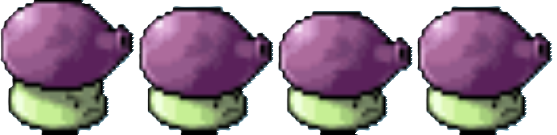
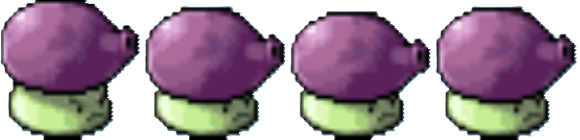
testing

diff --git a/Levels.cpp b/Levels.cpp
@@ -131,18 +131,21 @@ void Levels::collisionDetection()
 				//std::cout << pf.getPlants()[j]->getHealth() << '\n';
 			}
 
-			if (pf.getPlants()[j]->getBullet() != NULL &&  approxMatch(zf.getZombies()[i]->getHitArea(), pf.getPlants()[j]->getBullet()->getCoordinates()))
+			for (int m = 0; m < pf.getPlants()[j]->getBulletCount(); m++)
 			{
-				if (zf.getZombies()[i]->getHealth() > 0)
+				if (pf.getPlants()[j]->getBullet() != NULL && pf.getPlants()[j]->getBullet()[m] != NULL && approxMatch(zf.getZombies()[i]->getHitArea(), pf.getPlants()[j]->getBullet()[m]->getCoordinates()))
 				{
-					zf.getZombies()[i]->mark();
-					zf.getZombies()[i]->getShotAt(pf.getPlants()[j]->getBullet());
-				}
+					if (zf.getZombies()[i]->getHealth() > 0)
+					{
+						zf.getZombies()[i]->mark();
+						zf.getZombies()[i]->getShotAt(pf.getPlants()[j]->getBullet()[m]);
+					}
 
-				//else
-				//{
-				//	killCount++;
-				//}
+					//else
+					//{
+					//	killCount++;
+					//}
+				}
 			}
 
 
@@ -156,19 +159,21 @@ void Levels::collisionDetection()
 
 				//std::cout << pf.getPlants()[j]->getHealth() << '\n';
 			}
-
-			if (pf.getPlants()[j]->getBullet() != NULL && approxMatch(zf.getDancers()[i]->getHitArea(), pf.getPlants()[j]->getBullet()->getCoordinates()))
+			for (int m = 0; m < pf.getPlants()[j]->getBulletCount(); m++)
 			{
-				if (zf.getDancers()[i]->getHealth() > 0)
+				if (pf.getPlants()[j]->getBullet() != NULL && pf.getPlants()[j]->getBullet()[m] != NULL && approxMatch(zf.getDancers()[i]->getHitArea(), pf.getPlants()[j]->getBullet()[m]->getCoordinates()))
 				{
-					zf.getDancers()[i]->mark();
-					zf.getDancers()[i]->getShotAt(pf.getPlants()[j]->getBullet());
-				}
+					if (zf.getDancers()[i]->getHealth() > 0)
+					{
+						zf.getDancers()[i]->mark();
+						zf.getDancers()[i]->getShotAt(pf.getPlants()[j]->getBullet()[m]);
+					}
 
-				//else
-				//{
-				//	killCount++;
-				//}
+					//else
+					//{
+					//	killCount++;
+					//}
+				}
 			}
 
 
@@ -184,18 +189,21 @@ void Levels::collisionDetection()
 
 				}
 
-				if (pf.getPlants()[j]->getBullet() != NULL && zf.getBackUp()[i][k] != NULL && approxMatch(zf.getBackUp()[i][k]->getHitArea(), pf.getPlants()[j]->getBullet()->getCoordinates()))
+				for (int m = 0; m < pf.getPlants()[j]->getBulletCount(); m++)
 				{
-					if (zf.getBackUp()[i][k]->getHealth() > 0)
+					if (pf.getPlants()[j]->getBullet() != NULL && pf.getPlants()[j]->getBullet()[m] != NULL && zf.getBackUp()[i][k] != NULL && approxMatch(zf.getBackUp()[i][k]->getHitArea(), pf.getPlants()[j]->getBullet()[m]->getCoordinates()))
 					{
-						zf.getBackUp()[i][k]->mark();
-						zf.getBackUp()[i][k]->getShotAt(pf.getPlants()[j]->getBullet());
-					}
+						if (zf.getBackUp()[i][k]->getHealth() > 0)
+						{
+							zf.getBackUp()[i][k]->mark();
+							zf.getBackUp()[i][k]->getShotAt(pf.getPlants()[j]->getBullet()[m]);
+						}
 
-					//else
-					//{
-					//	killCount++;
-					//}
+						//else
+						//{
+						//	killCount++;
+						//}
+					}
 				}
 
 			}

diff --git a/PeaShooter.cpp b/PeaShooter.cpp
@@ -1,23 +1,24 @@
 #include "PeaShooter.h"
 
 PeaShooter::PeaShooter(int x, int y, int health, int pixelsX, int pixelsY)
-	: Plant (x,y,health, pixelsX, pixelsY)
+	: Plant (x,y,health, pixelsX, pixelsY), Pea(NULL), bulletCount(1)
 {
 	
 	texture.loadFromFile("./Images/Peashooter.png");
 	sprite.setTexture(texture);
 	sprite.setTextureRect(IntRect(0, 0, pixelsX, pixelsY));
 	sprite.setPosition(Pos.x, Pos.y);
+	Pea = new Bullet * [bulletCount] {};
 }
 
 void PeaShooter::Shoot()
 {
 
-	if (clock.getElapsedTime().asSeconds() < 0.5 || Pea)
+	if (clock.getElapsedTime().asSeconds() < 0.5 || Pea[0])
 		return;
 
 	clock.restart();
-	Pea = new Bullet(coordinates(Pos.x + 50, Pos.y + 50), 70, "frozen");
+	Pea[0] = new Bullet(coordinates(Pos.x + 50, Pos.y + 50), 70, "normal");
 }
 
 void PeaShooter::Draw(RenderWindow& window, float deltaTime)
@@ -27,18 +28,18 @@ void PeaShooter::Draw(RenderWindow& window, float deltaTime)
 		UpdateAnimation(deltaTime);
 		window.draw(sprite);
 
-		if (Pea)
+		if (Pea[0])
 		{
-			if (Pea->Existance())
+			if (Pea[0]->Existance())
 			{
-				Pea->Move();
-				Pea->draw(window);
+				Pea[0]->Move();
+				Pea[0]->draw(window);
 			}
 
 			else
 			{
-				delete Pea;
-				Pea = NULL;
+				delete Pea[0];
+				Pea[0] = NULL;
 			}
 		}
 	}

diff --git a/PlantFactory.cpp b/PlantFactory.cpp
@@ -89,9 +89,9 @@ void PlantFactory::Shoot()
         plants[i]->Shoot();
 }
 
-
-void PlantFactory::spawnSunflowerAtPosition(int x, int y)
-{
+//
+//void PlantFactory::spawnSunflowerAtPosition(int x, int y)
+//{
 int PlantFactory::Clicked(Event& event)
 {
     std::cout << "I am in click" << std::endl;
@@ -156,7 +156,8 @@ void PlantFactory::spawnSunflowerAtPosition(int x, int y, int check)
         break;
     case 4:
         std::cout << "Cherrybomb " << std::endl;
-        plants[numPlants] = new CherryBomb(x, y, 100);
+        cherryBomb = new CherryBomb(x, y, 100);
+        numPlants--;
         break;
     case 5:
         std::cout << "Repeater " << std::endl;

diff --git a/FumeShroom.cpp b/FumeShroom.cpp
@@ -4,7 +4,7 @@ FumeShroom::FumeShroom(int x, int y, int health, int pixelsX, int pixelsY)
 {
 	texture.loadFromFile("./Images/Fume-Shroom.png");
 	sprite.setTexture(texture);
-	sprite.setTextureRect(IntRect(offset * 139, 0, 139, 135));
+	sprite.setTextureRect(IntRect(0, 0, pixelsX, pixelsY));
 	sprite.setPosition(Pos.x, Pos.y);
 }
 void FumeShroom::UpdateAnimation(float deltaTime)
@@ -18,5 +18,5 @@ void FumeShroom::UpdateAnimation(float deltaTime)
 		if (offset == 4)
 			offset = 0;
 	}
-	sprite.setTextureRect(IntRect(offset * 139, 0, 139, 135));
+	sprite.setTextureRect(IntRect(offset * pixelsX, 0, pixelsX, pixelsY));
 }

diff --git a/PeaShooter.h b/PeaShooter.h
@@ -2,14 +2,17 @@
 #include "Plant.h"
 class PeaShooter : public Plant
 {
-	Bullet* Pea;
+protected:
+	Bullet** Pea;
+	int bulletCount;
 	Clock clock;
 public:
-	PeaShooter(int x, int y, int health, int pixelsX = 115, int pixelsY = 135);
+	PeaShooter(int x, int y, int health, int pixelsX = 111, int pixelsY = 135);
 	void UpdateAnimation(float deltaTime);
 	virtual void Shoot();
 	void Draw(RenderWindow& window, float deltaTime);
-	Bullet* getBullet()
+	int getBulletCount() { return bulletCount; }
+	Bullet** getBullet()
 	{
 		return Pea;
 	}

diff --git a/Repeater.cpp b/Repeater.cpp
@@ -8,6 +8,8 @@ Repeater::Repeater(int x, int y, int health, int pixelsX, int pixelsY)
 	sprite.setTexture(texture);
 	sprite.setTextureRect(IntRect(offset * 139, 0, 139, 135));
 	sprite.setPosition(Pos.x, Pos.y);
+
+	/*Pea = new Bullet * [bulletCount] {}*/
 }
 
 void Repeater::UpdateAnimation(float deltaTime)
@@ -23,3 +25,8 @@ void Repeater::UpdateAnimation(float deltaTime)
 	}
 	sprite.setTextureRect(IntRect(offset * 139, 0, 139, 135));
 }
+
+//void Repeater::Shoot()
+//{
+//
+//}

diff --git a/PlantFactory.h b/PlantFactory.h
@@ -29,11 +29,14 @@ public:
     bool selected = false;
 
     PlantFactory(int plantsUnlocked);
+    
     int Clicked(Event& event);
+
     void SelectPlants(int x);
+
     void DrawPlants(RenderWindow& window, float deltaTime);
 
-    void spawnSunflowerAtPosition(int x, int y);
+    //void spawnSunflowerAtPosition(int x, int y);
 
     void DeleteDeadPlants(bool FIELD_GAME_STATUS[][9]);
 

diff --git a/SnowPea.cpp b/SnowPea.cpp
@@ -20,3 +20,12 @@ void SnowPea::UpdateAnimation(float deltaTime)
 	}
 	sprite.setTextureRect(IntRect(offset * 131, 0, 131, 135));
 }
+
+//void SnowPea::Shoot()
+//{
+//	if (clock.getElapsedTime().asSeconds() < 0.5 || Pea)
+//		return;
+//
+//	clock.restart();
+//	Pea = new Bullet(coordinates(Pos.x + 50, Pos.y + 50), 70, "frozen");
+//}

diff --git a/Plant.h b/Plant.h
@@ -36,10 +36,17 @@ public:
 		sprite.setColor(c);
 	}
 
-	virtual Bullet* getBullet()
+	virtual int getBulletCount()
 	{
-		Bullet* ignore(NULL);
-		return ignore;
+		return 0;
+	}
+
+	virtual Bullet** getBullet()
+	{
+		Bullet* ignore = NULL;
+		Bullet** ignore2 = &ignore;
+		
+		return ignore2;
 	}
 };
 

diff --git a/FumeShroom.h b/FumeShroom.h
@@ -2,10 +2,9 @@
 #include "Plant.h"
 class FumeShroom : public Plant
 {
-	Bullet* Pea;
 	Clock clock;
 public:
-	FumeShroom(int x, int y, int health, int pixelsX, int pixelsY);
+	FumeShroom(int x, int y, int health, int pixelsX = 145, int pixelsY = 140);
 	void UpdateAnimation(float interval);
 };
 

diff --git a/Repeater.h b/Repeater.h
@@ -6,5 +6,6 @@ class Repeater : public PeaShooter
 public:
 	Repeater(int x, int y, int health, int pixelsX=139, int pixelsY=135);
 	void UpdateAnimation(float interval);
+	//void Shoot();
 };
 

diff --git a/SnowPea.h b/SnowPea.h
@@ -6,5 +6,6 @@ class SnowPea : public PeaShooter
 public:
 	SnowPea(int x, int y, int health, int pixelsX=131, int pixelsY=135);
 	void UpdateAnimation(float interval);
+	//void Shoot();
 };
 
